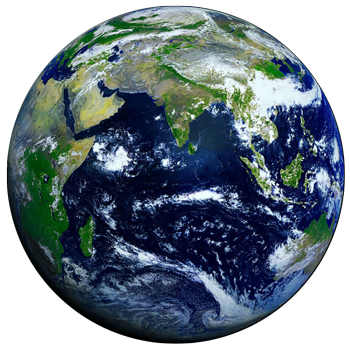
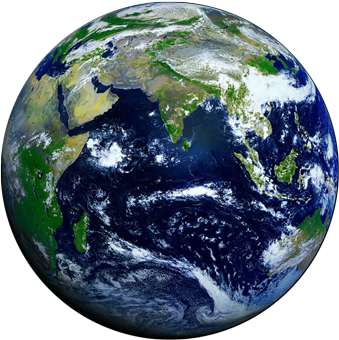
Acid trip

diff --git a/index.html b/index.html
@@ -11,12 +11,17 @@
 		<div class="scene">
 			<div class="stars"></div>
 			<div class="twinkling"></div>
+			<div class="acid transparent ">
+				<img id="acid" src="./acid1.gif"/>
+			</div>
 			<h3 class="titulo">Aperte espaço para mudar a direção</h3><br>
 			<h3 class="titulo">e enter para atirar</h3>
 			<br>
 			<h3 class="pontuacao">Score: <span id="minha-pontuacao-linda">120</span></h3>
-			<div class="terradiv">
-				<img id="terra" src="./Earth-Free-Download-PNG.png"/>
+			<div class="terradiv shadow" id="cf2">
+				<img class="3" id="terra" src="./swirl_final.png"/>
+				<img class="2" id="terra" src="./eye-026.png"/>
+				<img class="1" id="terra" src="./Earth-Free-Download-PNG.png"/>
 			</div> 
 			<div class="image1">
 				<img id="eric" src="https://emoji.slack-edge.com/T0NGK4FPS/eric/8a5698b1bd5ce9be.png"/>
@@ -62,13 +67,25 @@
 	    		multiplier = 1;
 	    	}
 	    }
+	    function invertcolors(){
+	    	setTimeout(function(){
+	    		$("#eric").toggleClass("invert");
+	    		$(".villain").toggleClass("invert");
+	    		$(".tiro").toggleClass("invert");
+	    		invertcolors()
+	    	},200);
+	    }
 	    function rotateearth(){
 	    	if (degree2 == 360 || degree2 == -360){
 	    		degree2 = 0;
 	    	}
 	    	$earth.css({ WebkitTransform: 'rotate(' + degree2 + 'deg)'});
 	    	timer = setTimeout(function() {
-	    		degree2 += 0.005;
+	    		if(level == 1 || level == 2){
+	    			degree2 += 0.005;
+	    		} else if(level == 3){
+	    			degree2 -= 2;
+	    		}
 	    		for (i=0; i<enemies.length; i++){
 	    			for (j=0; j<shoots.length; j++){
 	    				if (enemies[i].contact(shoots[j])){
@@ -95,8 +112,17 @@
 						enemies.splice(i,1);
 						score += 20;
 						$('#minha-pontuacao-linda').html(score);
-						if (score == 1000){
+						if (score == 100){
 							level ++;
+							$("#cf2 img.1").toggleClass("transparent");
+							$(".stars").toggleClass("transparent");
+							$(".twinkling").toggleClass("transparent");
+						}
+						if (score == 200){
+							level ++;
+							$("#cf2 img.2").toggleClass("transparent");
+							$(".acid").toggleClass("transparent");
+							invertcolors();
 						}
 					}
 				};
@@ -113,9 +139,17 @@
 	       	$elie.css({ WebkitTransform: 'rotate(' + degree + 'deg)'});
 			timer = setTimeout(function() {
 				if(direction){
-	    			degree-=0.5; rotate();
+					if (level < 3){
+	    				degree-=0.5; rotate();
+					} else {
+						degree-=1; rotate();
+					}
 				} else {
-					degree+=0.5; rotate();
+					if (level < 3){
+						degree+=0.5; rotate();
+					} else {
+						degree+=1; rotate();
+					}
 				}
 			},1/120);
 	    }

diff --git a/css/style.css b/css/style.css
@@ -102,15 +102,43 @@ body, html{
   z-index: -10;
 }
 
+.invert{
+	filter: invert(100%) !important;
+	-webkit-filter: invert(100%);
+}
+
+.acid {
+  z-index: -10;
+  transform-origin: 50% 50%;
+  width: 100%;
+  height: 100%;
+  position: fixed;
+}
+
+#acid{
+  width: 100%;
+  top: 50%;
+  left: 50%;
+  margin-top: -25%;
+  margin-left: -10px;
+}
+
 .twinkling{
   background:transparent url(http://www.script-tutorials.com/demos/360/images/twinkling.png) repeat top center;
   z-index:-10;
- 
   -moz-animation:move-twink-back 200s linear infinite;
   -ms-animation:move-twink-back 200s linear infinite;
   -o-animation:move-twink-back 200s linear infinite;
   -webkit-animation:move-twink-back 200s linear infinite;
   animation:move-twink-back 200s linear infinite;
+}
+
+.transparent {
+	opacity:0;
+}
+
+.transparent {
+	opacity:0;
 }
 
 .villain {
@@ -136,4 +164,15 @@ body, html{
 .pontuacao{
 	float: right;
 	color: white;
+}
+
+#cf2 img {
+  -webkit-transition: opacity 5s ease-in-out;
+  -moz-transition: opacity 5s ease-in-out;
+  -o-transition: opacity 5s ease-in-out;
+  transition: opacity 5s ease-in-out;
+}
+
+#cf2 img.transparent {
+	opacity:0;
 }

diff --git a/js/jogo.js b/js/jogo.js
@@ -74,11 +74,18 @@ function generateLevel() {
 		},2000);
 	} else if (level == 2){
 		timer = setTimeout(function() {
-			if (enemies.length < 15){
+			if (enemies.length < 7){
 				enemies.push(generateEnemy());
 			}
 			generateLevel(2);
-		},2000);
+		},1500);
+	} else if (level == 3){
+		timer = setTimeout(function() {
+			if (enemies.length < 10){
+				enemies.push(generateEnemy());
+			}
+			generateLevel(3);
+		},1000);
 	}
 }
 
@@ -114,8 +121,8 @@ function generateEnemy() {
 		}
 	}
 	speed = {
-			y: (earth.position().top - position.y) * 0.03,
-			x: (earth.position().left - position.x) * 0.03
+			y: (earth.position().top - position.y) * 0.03 * level,
+			x: (earth.position().left - position.x) * 0.03 * level
 	};
 	var div = $('.villain.template').clone();
 	div.removeClass('template');
